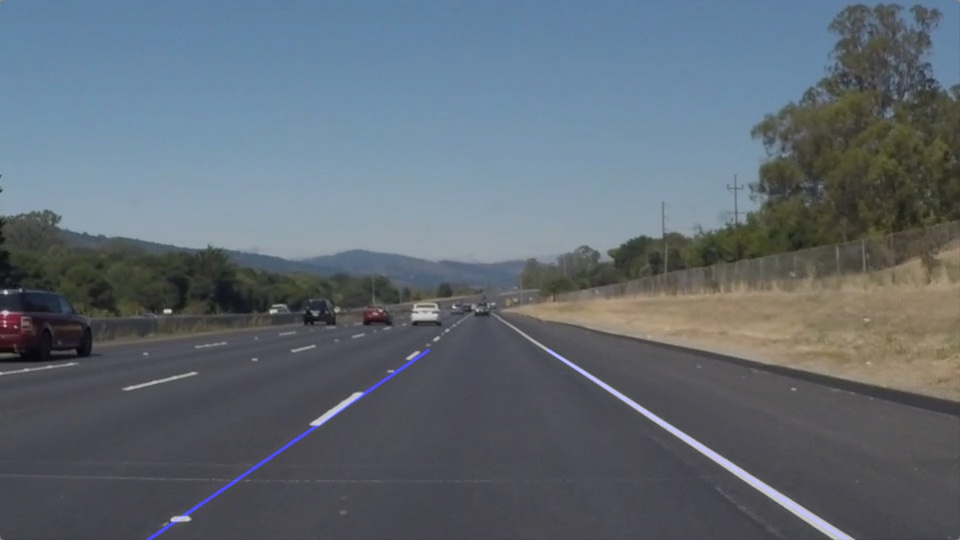
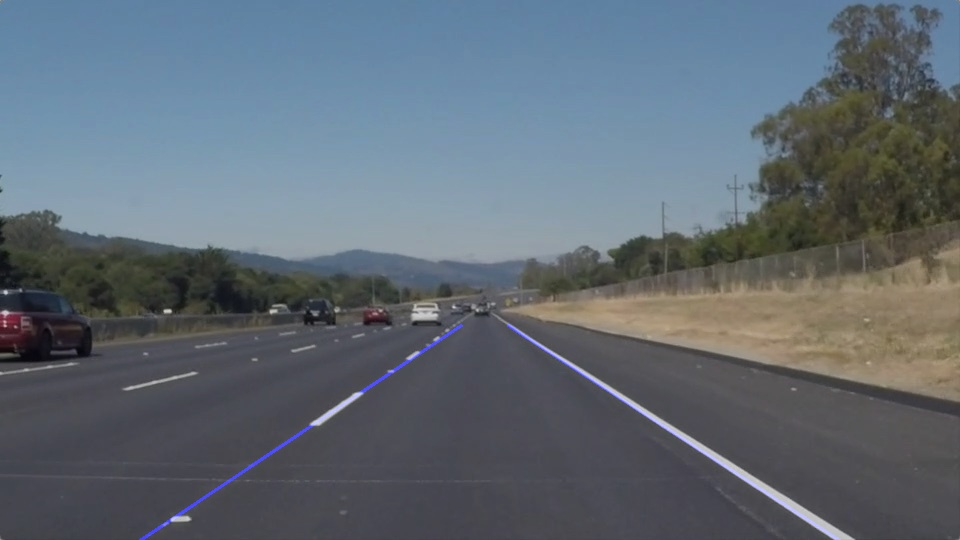
fix reduce lines routine

diff --git a/helpers.py b/helpers.py
@@ -72,8 +72,7 @@ def hough_lines(img, rho, theta, threshold, min_line_len, max_line_gap, single_l
     Returns an image with hough lines drawn.
     """
     lines = cv2.HoughLinesP(img, rho, theta, threshold, np.array([]), minLineLength=min_line_len, maxLineGap=max_line_gap)
-    if single_line:
-        lines = reduce_lines(lines, vertices)
+    lines = reduce_lines(lines, vertices, single_line)
     line_img = np.zeros((*img.shape, 3), dtype=np.uint8)
     draw_lines(line_img, lines)
     return line_img
@@ -94,21 +93,17 @@ def weighted_img(img, initial_img, α=0.8, β=1., λ=0.):
     """
     return cv2.addWeighted(initial_img, α, img, β, λ)
 
+def reduce_lines(lines, vertices, single_line):
 
-def reduce_lines(lines, vertices):
-    
+    if not single_line: # comment out during debug
+        return lines 
+
     ybl = vertices[0][0][1]
     ytl = vertices[0][1][1]
     xtl = vertices[0][1][0]
     xtr = vertices[0][2][0]
     xmiddle = (xtr + xtl)/2
      
-    def printTuple(t): # for debug
-        x1, y1, x2, y2, m, b, x, y = t[0][0], t[0][1], t[0][2], t[0][3], t[1], t[2], t[3], t[4]
-        print(str(x1) + ',' + str(y1) + ',' + str(x2) + ',' + str(y2)
-            + ',' + '{: 5.2f}'.format(m) + ',' + '{: 5.1f}'.format(b)
-            + ',' + str(x) + ',' + str(y))
-        
     def getXY(p,y):
         return([int(round((y-p[1])/p[0])),y])
 
@@ -118,7 +113,6 @@ def reduce_lines(lines, vertices):
         points.extend(getXY(p,ytl))
         return [points]
                       
-    # l2r, r2l = [], [] # during debug
     xl2r, yl2r, xr2l, yr2l = [], [], [], []
     for line in lines:
         x1, y1, x2, y2 = line[0][0], line[0][1], line[0][2], line[0][3]
@@ -128,28 +122,32 @@ def reduce_lines(lines, vertices):
             y = (y1 + y2) / 2
             if m < 0: # check slope for LHS or RHS
                 if x < xmiddle: # make sure on LHS or RHS
-                    #l2r.append((line[0],m,b,x,y)) # used during debug
                     xl2r.append(x)
                     yl2r.append(y)
             else:
                 if x > xmiddle:
-                    #r2l.append((line[0],m,b,x,y)) # used during debug
                     xr2l.append(x)
                     yr2l.append(y)
-    #for lr in l2r: # used during debug
-    #    printTuple(lr)
-    #    print(lr)
- 
-    #for rl in r2l: # used during debug
-    #    printTuple(rl)
-    #    print(lr)
-
+    
     poly1 = np.polyfit(xl2r,yl2r,1)
     poly2 = np.polyfit(xr2l,yr2l,1)
-    
+        
     lines2 = [getPoint(poly1)]
     lines2.append(getPoint(poly2))
-    print(lines2)
-    #print(lines)
     return lines2
                       
+def process_image(imageIn):
+    ymax = imageIn.shape[0]
+    imageGray = grayscale(imageIn)
+    #cv2.imwrite('test_images/imageGray.jpg',imageGray)
+    imageBlur = gaussian_blur(imageGray, 5)
+    imageEdges = canny(imageBlur, 50,150)
+    #cv2.imwrite('test_images/imageEdges.jpg',imageEdges)
+    xlb, ylb, xlt, ylt, xrt, yrt, xrb, yrb = 130,ymax, 400,325, 525,325, 900,ymax
+    vertices = np.array([[(xlb,ylb),(xlt, ylt), (xrt,yrt), (xrb,yrb)]], dtype=np.int32)
+    imageMasked = region_of_interest(imageEdges,vertices)
+    #cv2.imwrite('test_images/imageMasked.jpg',imageMasked)
+    imageLines = hough_lines(imageMasked, 1, np.pi/180, 10, 10, 5,True, vertices)
+    #cv2.imwrite('test_images/imageLines.jpg',imageLines)
+    imageOut = weighted_img(imageLines, imageIn)
+    return imageOut
